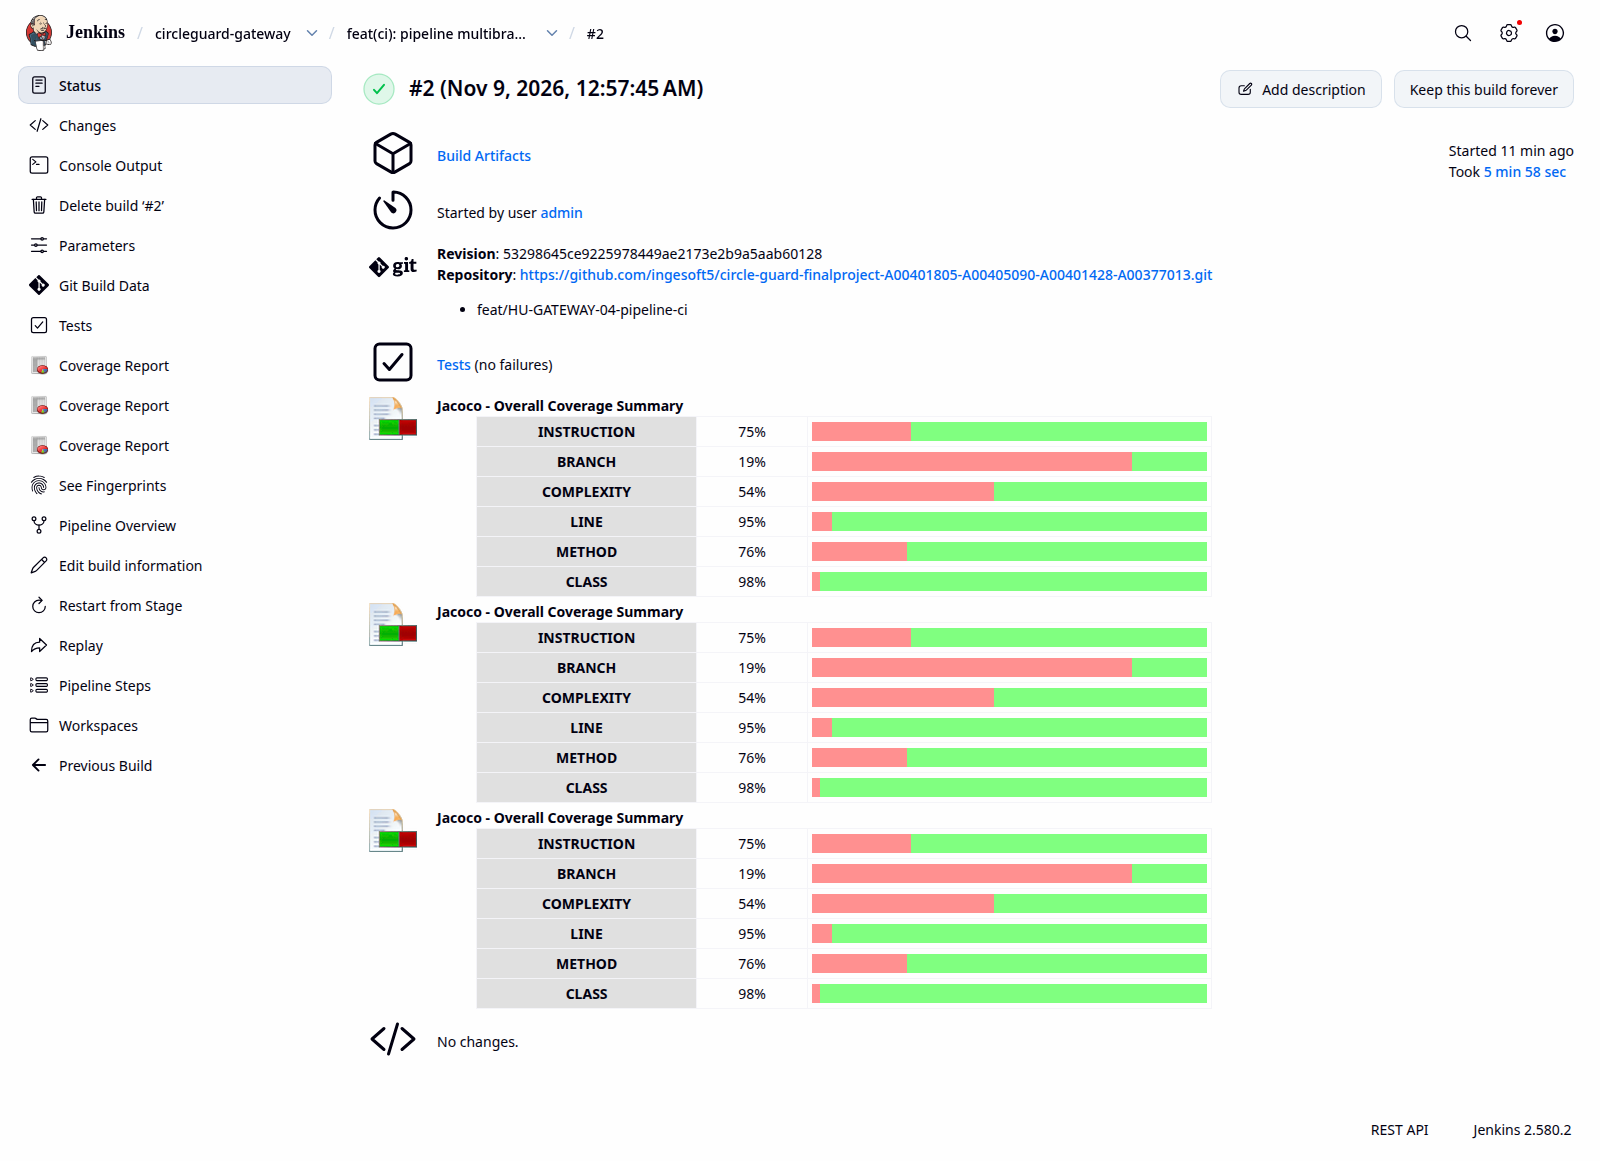
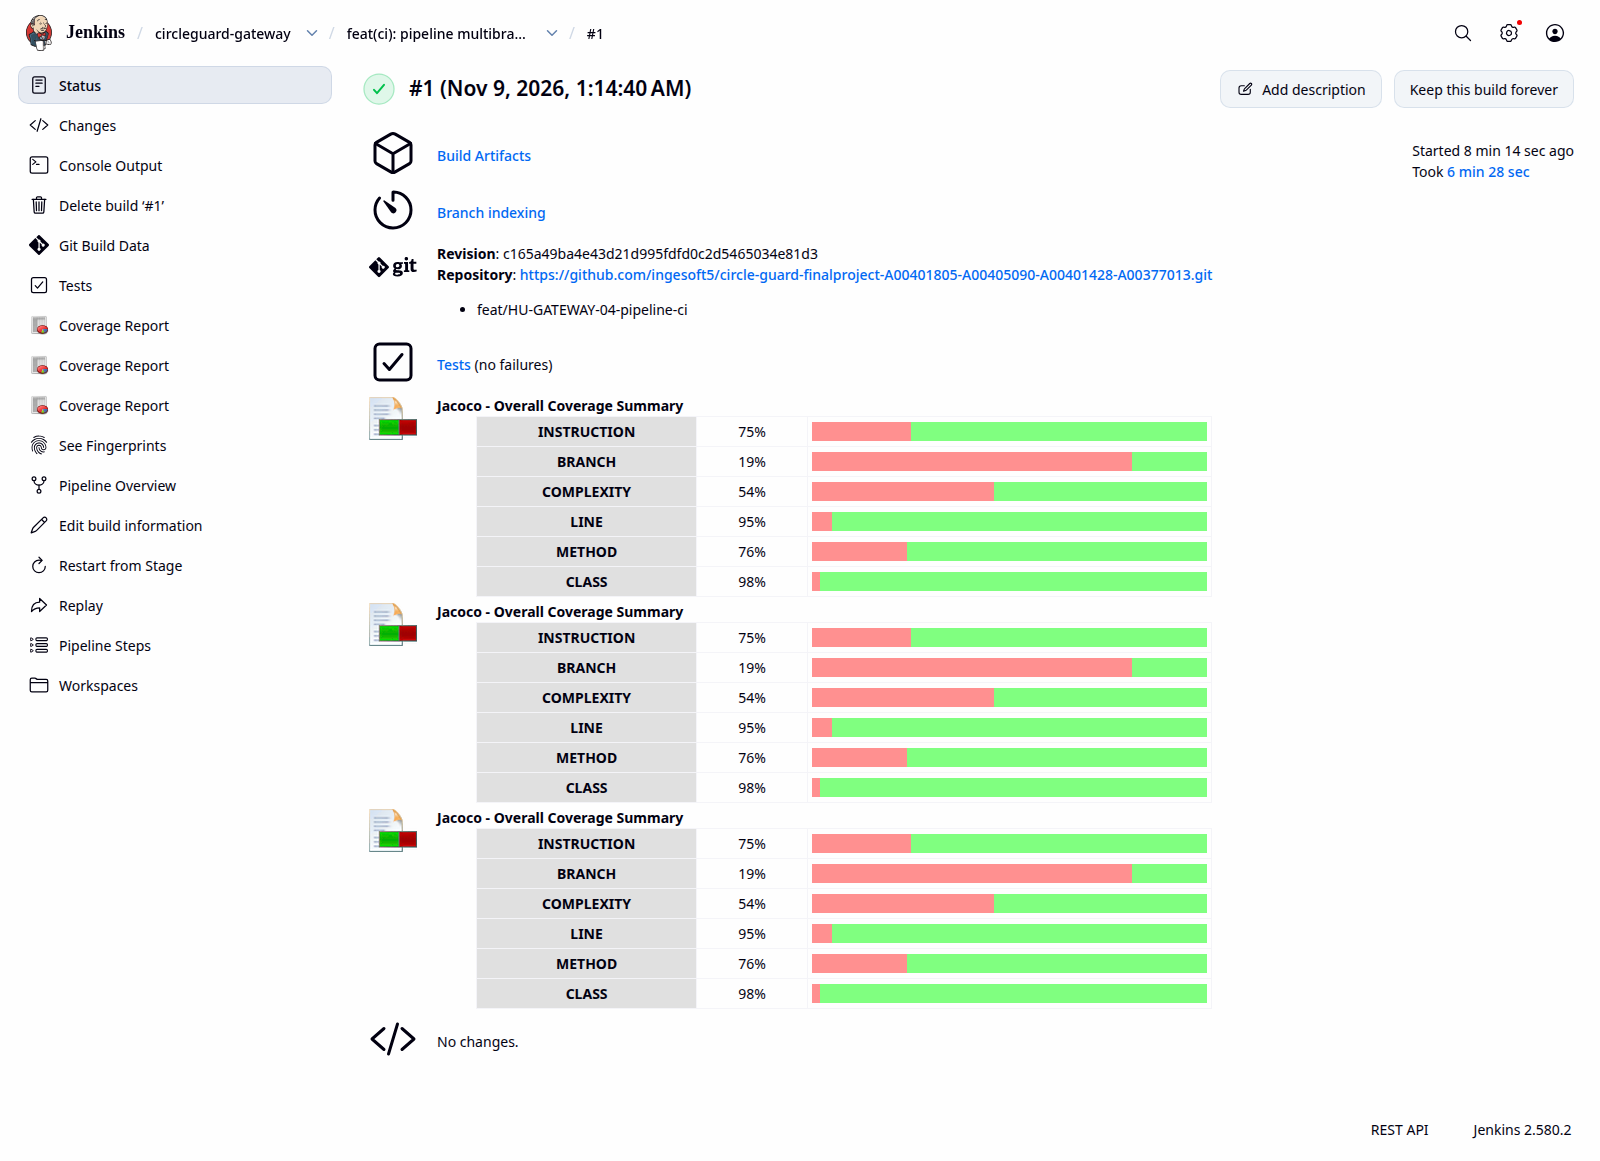
docs(ci): refresh Jenkins and Sonar evidence

diff --git a/docs/informe/HU-GATEWAY-04.md b/docs/informe/HU-GATEWAY-04.md
@@ -193,7 +193,7 @@ Las capturas se almacenan en `docs/informe/evidencia/HU-GATEWAY-04/`. Ver el
 
 | Evidencia | Archivo | Estado |
 |---|---|---|
-| URL del build de Jenkins | `01-jenkins-build.png` | ✅ Build #2 |
+| URL del build de Jenkins | `01-jenkins-build.png` | ✅ Build #1 |
 | Reporte JaCoCo ≥ 60 % | `02-jacoco-report.png` | ✅ 95 % líneas |
 | Dashboard de Sonar con gate verde | `03-sonar-dashboard.png` y `17-sonar-overall.png` | ✅ Gate Passed |
 | Configuración del webhook | `04-github-webhook-config.png` | Pendiente de UI |
@@ -202,7 +202,7 @@ Las capturas se almacenan en `docs/informe/evidencia/HU-GATEWAY-04/`. Ver el
 | Artefactos del build | `07-jenkins-artifacts.png` y `15-artifacts-services.png` | ✅ |
 | Reporte JUnit | `14-junit-report.png` | ✅ 78 pruebas |
 | Enlaces a Sonar | `16-sonar-links.png` | ✅ |
-| Duración del build | `08-build-duration.png` | ✅ 5 min 58 s |
+| Duración del build | `08-build-duration.png` | ✅ 6 min 28 s |
 | Notificación de fallo en GitHub | `09-failure-notification-github.png` | Pendiente |
 | Notificación de fallo en Slack | `10-failure-notification-slack.png` | Pendiente |
 | Quality gate en rojo | `11-quality-gate-red.png` | Pendiente |
@@ -211,9 +211,9 @@ Las capturas se almacenan en `docs/informe/evidencia/HU-GATEWAY-04/`. Ver el
 
 ### 5.1 URL del build
 
-Build **#2** del PR #23, commit `5329864`, ejecutado el 8 de noviembre de 2026:
+Build **#1** del PR #23, commit `c165a49`, ejecutado el 8 de noviembre de 2026:
 
-**<http://77.112.223.174:8080/job/circleguard-gateway/job/PR-23/2/>**
+**<http://77.112.223.174:8080/job/circleguard-gateway/job/PR-23/1/>**
 
 ![Página del build de Jenkins](evidencia/HU-GATEWAY-04/01-jenkins-build.png)
 
@@ -248,7 +248,7 @@ los reportes de los tres servicios y `sonar-links.txt`.
 
 ### 5.5 Duración
 
-El build completo tardó **5 min 58 s**, por debajo del límite de 10 minutos.
+El build completo tardó **6 min 28 s**; las etapas de Build y Unit Tests + JaCoCo sumaron **4 min 44 s**, por debajo del límite de 10 minutos.
 
 ![Duración del build](evidencia/HU-GATEWAY-04/08-build-duration.png)
 
